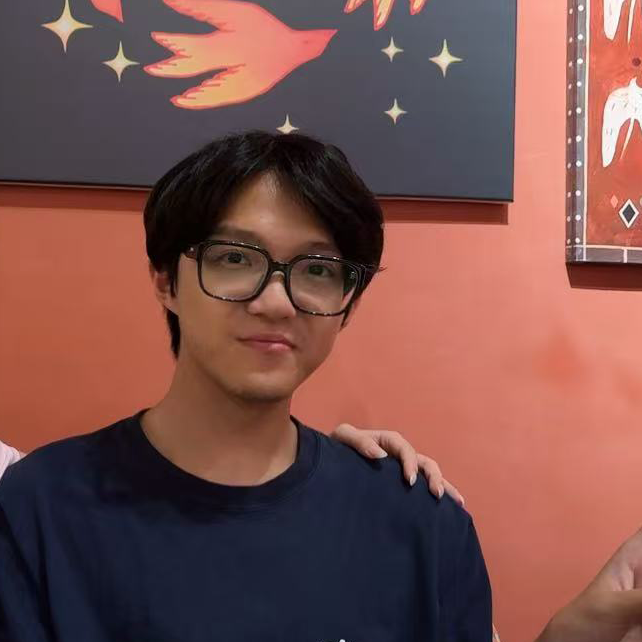
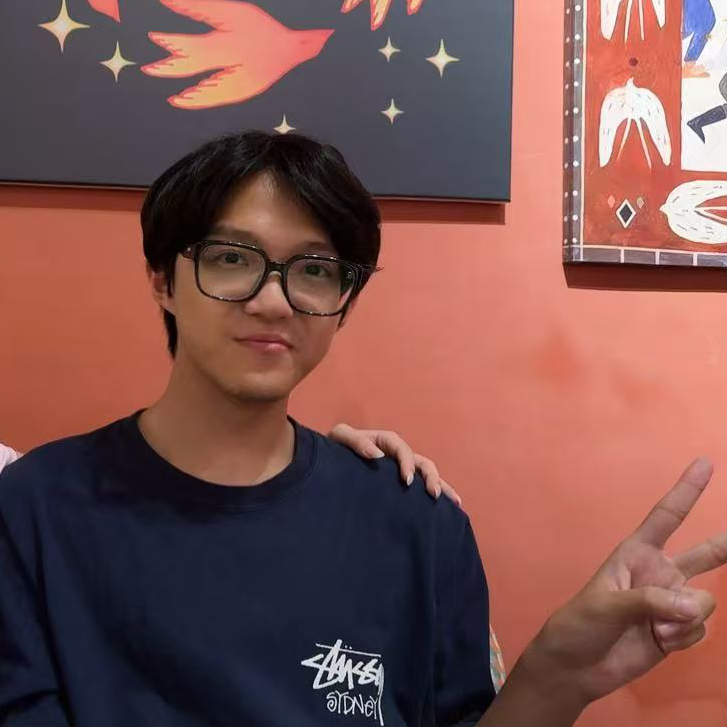
V3.2

diff --git a/_sass/layout/_sidebar.scss b/_sass/layout/_sidebar.scss
@@ -155,7 +155,7 @@
 
   img {
     max-width: 175px;
-    border-radius: 50%;
+    border-radius: 0%;
 
     @include breakpoint($large) {
       padding: 5px;
